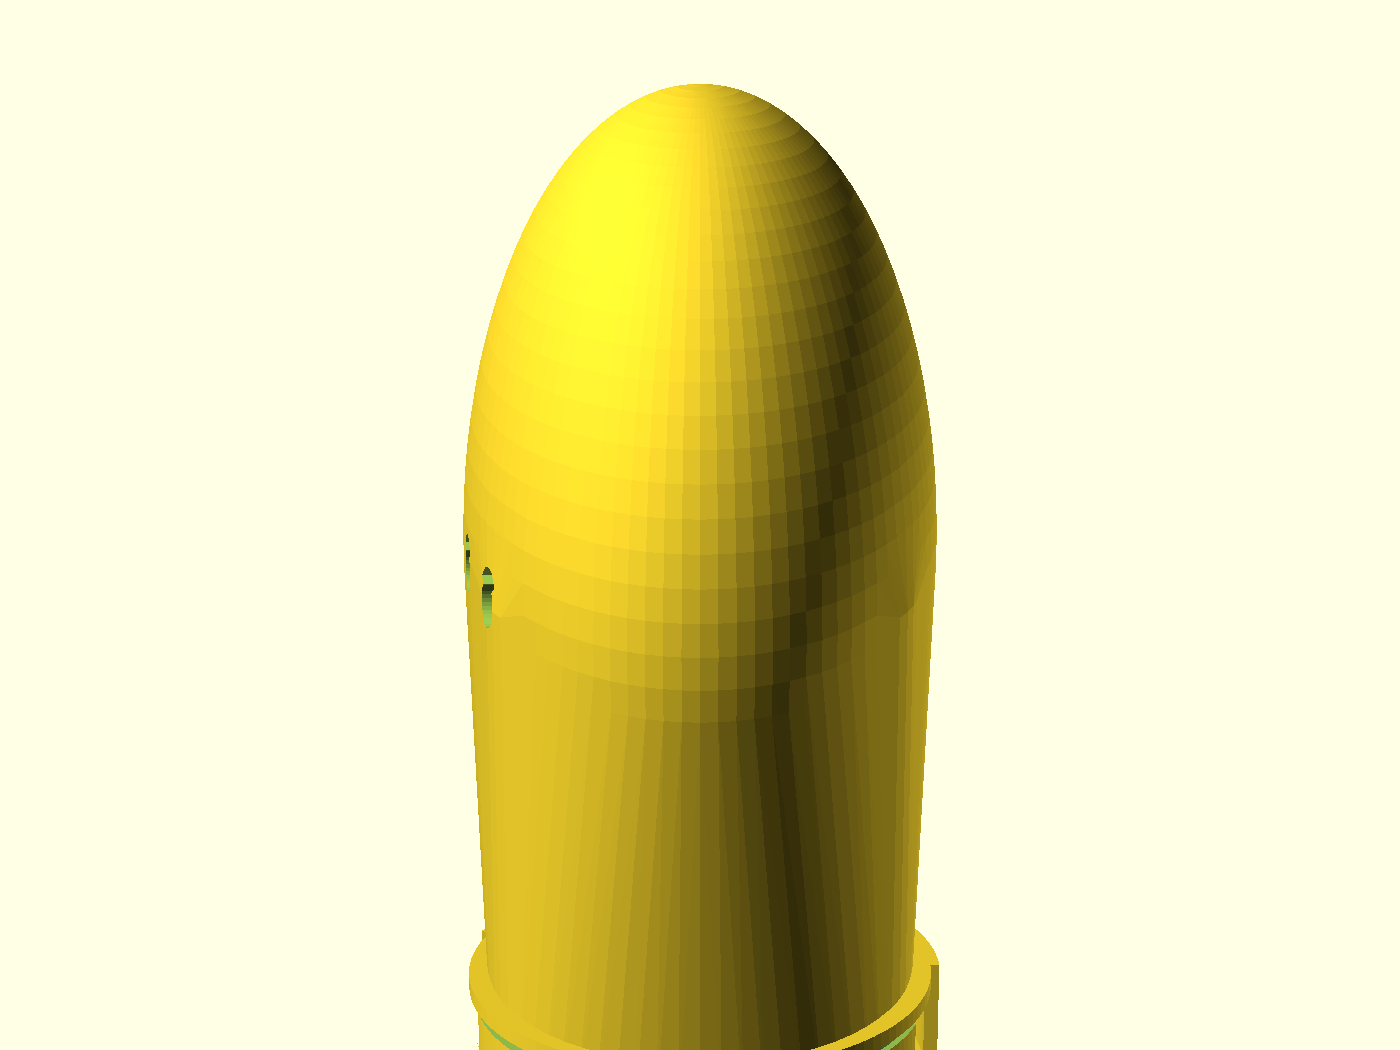
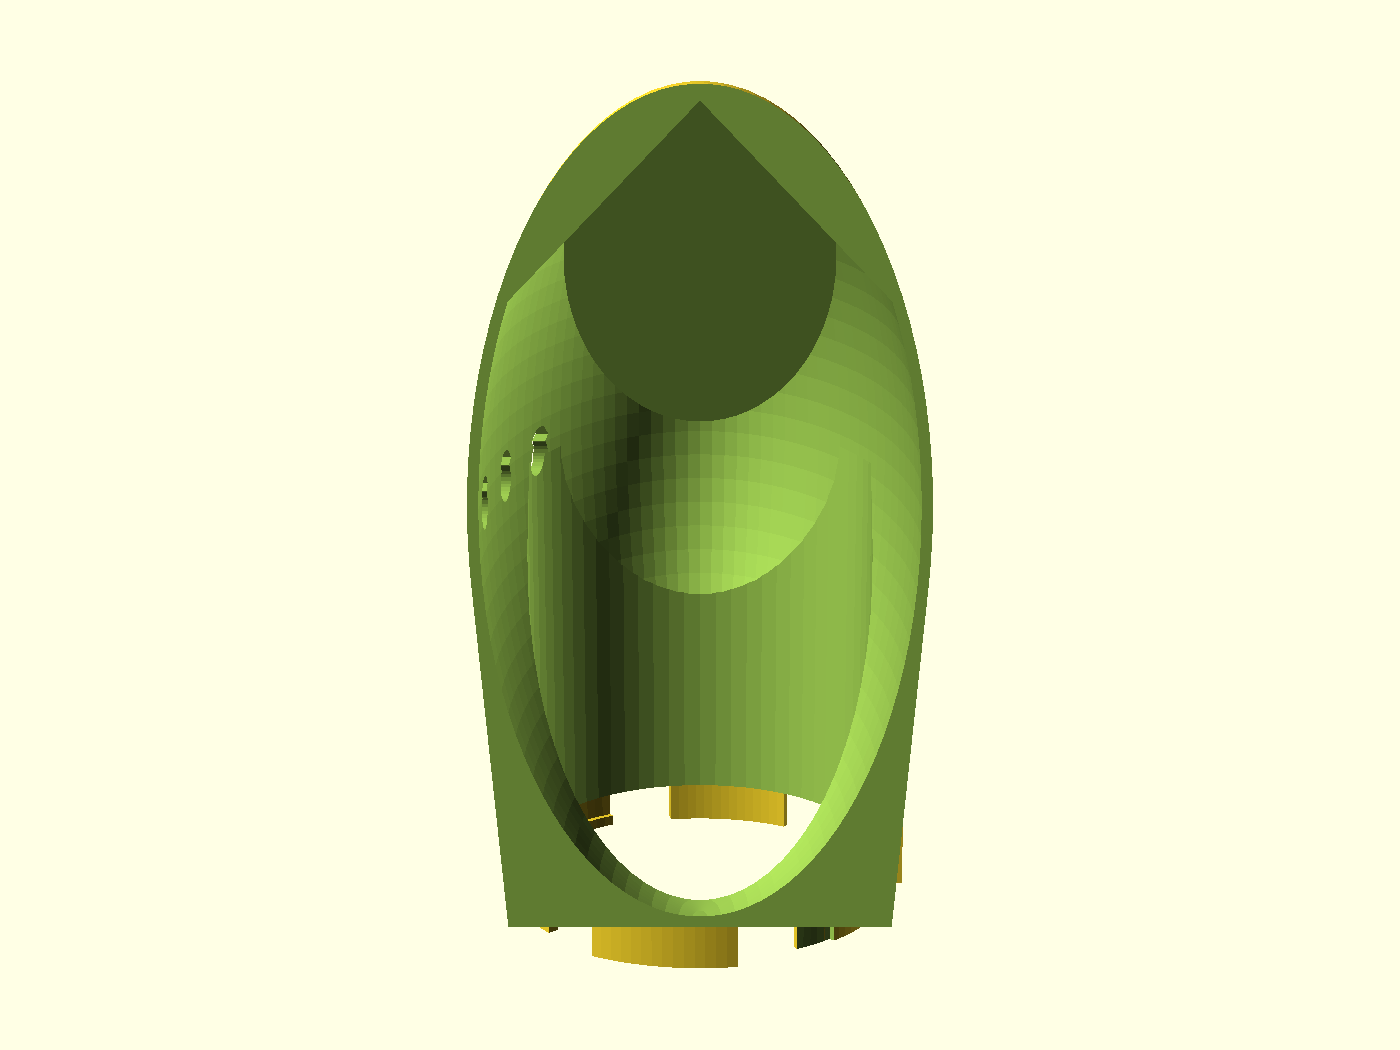
nuggs-turnaround: land #503's post-merge review debt — the ten PM-routed copy items + the cutaway-section flip (#575)
* Update design: nuggs-turnaround

Land PR #503's post-merge review debt (issue #508): the ten act-now copy
items the PM routed to main — CI's real print cost quoted everywhere
(1 d 0 h 12 m / 349.52 g replacing ~21 h / ~300 g), mouse ears + the
EFC-on-coupon-only advice, the PETG symptom map with Jane's first-hour
sentence, the 46° roof clause, the two step-4 care lines (empty-check,
bedding-mound check), the natural-filament safety line, the cutaway-ridge
edge-on caption, the assert-seal clause de-absolutized against #499, the
printcheck 84→92 skew note — plus the one preview-only line that turns
the frozen cutaway cameras onto the section they were claimed to show
(cutaway-cross cutter removes the camera side, −y, so the y=0 cut face
faces the lens; ci.parts untouched, no gated STL changes).

Refs #508

* CI: regenerate previews and product pages

* nuggs-turnaround: apply three Copilot copy wrap/grammar nits

Wrap the NOTES full-module list item, rephrase the README shippable
line, and keep "and a deformed tube" intact across the care wrap.

---------

Changed region(s): [[0.3071, 0.061, 0.6757, 1.0]]

diff --git a/designs/nuggs-turnaround/README.md b/designs/nuggs-turnaround/README.md
@@ -35,7 +35,7 @@ its source live in [`designs/nuggs/PM.md`](../nuggs/PM.md) (N2) and
 - `turnaround` — the node (≈ 99 × 205 × 195 mm at defaults): an oblate chamber
   over a solid web, two Ø80 mm ports on the underside, six ceiling vents.
 - `coupon` — the standard NUGGS port stub (~21 mm, ~2 h 17 m to print) for
-  tuning the joint fit before you commit ~21 h of printing.
+  tuning the joint fit before you commit the 1 d 0 h 12 m print.
 
 The port faces the hero can't show are in the 4-view contact sheet's
 bottom-iso quadrant — the port-face view, both rings on their sector feet —
@@ -71,12 +71,19 @@ and, at first-layer resolution, in
 
 ![Crown profile, dead-on — the two roof planes and ridge of the vault](previews/cutaway-profile.png)
 
-![Section along the turn axis — the vault hipped down into the end](previews/cutaway-ridge.png)
+![Section along the turn axis — the vault hipped down into the end; the dark band is the shell seen edge-on, not a window](previews/cutaway-ridge.png)
 
 ## Print settings
 
-- **Material:** PLA preferred; PETG if it must live warm — expect a sagged
-  web underside, and slow the roof overhangs.
+- **Material:** PLA preferred; PETG if it must live warm. **Natural or
+  uncoloured filament is a safety decision, not a colour preference:** a
+  gnawing rodent abrades pigment straight into its mouth, and the chamber
+  ceiling is within a standing animal's reach. In PETG, know where the
+  symptoms land before you chase them: a **sagged web underside** faces the
+  bed inside a ~10 mm slot no blade reaches, and the roof prints **ridged
+  behind the Ø9 vents** — accept both, slow the roof, re-check the fit after.
+  Expect strings between the islands for the first hour — they merge away at
+  the port plane; let it run.
 - **Layer height:** 0.2 mm.
 - **Infill:** 15–20 % is plenty; the shell does the work.
 - **Seam:** Back (or scarf) — same setting for the coupon and the node; stock
@@ -87,18 +94,23 @@ and, at first-layer resolution, in
   anchored bridge, the belly dome is pole-flush on the bed, and the crown is
   the hipped vault above. The whole part is support-free as modelled. Keep
   auto-supports **off** even if your slicer offers them: anything it builds
-  inside the chamber is unreachable through six Ø9 mm vents.
+  inside the chamber is unreachable through six Ø9 mm vents. The roof
+  undersides print ridged at 46° — that's inside the chamber, by design.
 - **Orientation:** as modelled — both ports down, sector tips on the bed, the
   chamber up. Do not rotate it.
-- **Brim:** off. Only the sector tips touch the bed (the web is the bridge at
-  the port plane, 10 mm up), so the first ~50 layers print as twelve small
-  islands that merge at the port plane — expected, not a fault. A brim would
-  weld across the mating feet. Give it a clean sheet and no draft over the
-  bed, and watch the first hour — twelve free-standing islands is where a
-  21 h print dies if it's going to.
+- **Brim:** off — adhesion comes from **mouse ears placed radially outside
+  the port ring**, not a brim. Only the sector tips touch the bed (the web is
+  the bridge at the port plane, 10 mm up), so the first ~50 layers print as
+  twelve small islands that merge at the port plane — expected, not a fault.
+  A brim would weld across the mating feet; ears large enough to tie the
+  islands together would have to bridge an inter-foot gap, and they snap off
+  at the one-layer interface, leaving exactly the scar the deburr step below
+  already prescribes. Give it a clean sheet and no draft over the bed, and
+  watch the first hour — twelve free-standing islands is where a
+  1 d 0 h 12 m print dies if it's going to.
 - **Heads up:** ~195 mm tall — check your Z. It fits the 256×256×256 class
   this family gates on, but it is a big print: CI's test-slice reports
-  **~21 h and ~300 g** at 0.2 mm (the coupon is ~2 h 17 m).
+  **1 d 0 h 12 m and 349.52 g** at 0.2 mm (the coupon is ~2 h 17 m).
 
 ## Parameters
 
@@ -117,8 +129,10 @@ at the top of [`nuggs-turnaround.scad`](nuggs-turnaround.scad).
 | `wall` | 2.4 mm | Shell thickness — about six perimeters at a stock 0.42 line width; leave wall loops at default. |
 
 Override on the command line with, e.g., `-D 'port_tol=0.35'`. Every dimension
-above is enforced by an `assert` in the `.scad`, so a value that breaks the
-welfare geometry fails the render instead of shipping.
+above is enforced by an `assert` in the `.scad`, so an out-of-range value
+fails the render. That seals the *dimensions*, not the whole part — the #499
+roof gap scored 84/100, watertight, with every assert green — so the gates
+and the previews, not the asserts alone, are what make it shippable.
 
 ## Assembly & use
 
@@ -130,7 +144,9 @@ welfare geometry fails the render instead of shipping.
    `port_tol` +0.05; will not lock → lower 0.05. If it inserts but the
    quarter-turn grinds near the lock, deburr the sector tips' first layer with
    a blade before touching `port_tol` — or set Elephant foot compensation to
-   0.2 mm for the coupon and the node.
+   0.2 mm **on the coupon**. Leave EFC off the node and deburr it after the
+   print instead: EFC insets the first layer's outline, and that outline is
+   the only adhesion twelve free-standing islands have.
    The coupon also previews what the first ~50 layers will look like: the
    same sector feet, printed as free-standing islands.
 2. **Print the node** ports-down, no supports, no brim.
@@ -146,13 +162,19 @@ welfare geometry fails the render instead of shipping.
    dish; that is fine — it is a pass-through, not a refuge, and the den is the
    module that wants the bedding — but strip the dish's bedding at the weekly
    clean: the vents' no-purchase argument assumes the ceiling stays a full
-   standing reach away, and a packed mound shortens it. Clean it hand-wash
-   only, lukewarm (≤ 50 °C), never the dishwasher: heat deforms PLA, and a
-   deformed tube is a *narrowed* tube — the material failure mode is the
-   injury failure mode (family charter N7).
+   standing reach away, and a packed mound shortens it. You don't have to
+   wait for the weekly clean to catch one: a torch through a vent when you
+   change the water tells you — if you can see a mound, strip it, and the
+   drum going quiet is the same tell. Before you twist the node off for any
+   of that cleaning, check it is empty: tap and listen, then a flashlight
+   through two vents — sound is one-directional, and a sleeping hamster is
+   silent in an opaque drum. Clean it hand-wash only, lukewarm (≤ 50 °C),
+   never the dishwasher: heat deforms PLA, and a deformed tube is a
+   *narrowed* tube — the material failure mode is the injury failure mode
+   (family charter N7).
 
 One stated trade, so it isn't an omission: the chamber is opaque, and **you
 will never see the turn** — you'll hear her cross before you see her (six
-open vents carry sound, and ~300 g of hollow shell is a drum at 2 a.m., her
+open vents carry sound, and 349.52 g of hollow shell is a drum at 2 a.m., her
 prime time). If watching matters, transparent PETG buys you a silhouette; a
 windowed variant is a possible future derivative.

diff --git a/designs/nuggs-turnaround/NOTES.md b/designs/nuggs-turnaround/NOTES.md
@@ -181,10 +181,13 @@ stub. The fit being tuned is the *coupling's*, owned by the standard.
    Will not lock / grinds → lower 0.05. If it inserts but the quarter-turn
    grinds near the lock, deburr the sector tips' first layer with a blade
    before touching `port_tol` — or set Elephant foot compensation to 0.2 mm
-   for the coupon and the node.
+   **on the coupon** (not the node: EFC insets the first layer's outline,
+   which is the only adhesion the node's twelve free-standing islands have —
+   deburr the node after the print instead).
    Caliper the bore while you're at it: under 79.0 mm means the printer is
    shrinking.
-4. Only then commit the full module (~195 mm tall, ~21 h and ~300 g at 0.2 mm — check the spool).
+4. Only then commit the full module (~195 mm tall, 1 d 0 h 12 m /
+   349.52 g at 0.2 mm — check the spool).
 
 ## Print settings
 
@@ -209,6 +212,11 @@ stub. The fit being tuned is the *coupling's*, owned by the standard.
   under it and asserts 199 parametrically.
 
 ## Session log
+
+- 2026-08-31 (post-merge, recorded in the #508 copy pass): CI's gate on the
+  merged head scores the turnaround **92/100** where the runs recorded here
+  score **84/100** — local-vs-CI **printcheck version skew**, not a geometry
+  change. The score never moved; a future round should not try to "fix" it.
 
 - 2026-08-30 (issue #499 — the roof was open to the air at the y-ends): the
   crown cap as shipped was union(truncated ellipsoid, gable vault), and the
